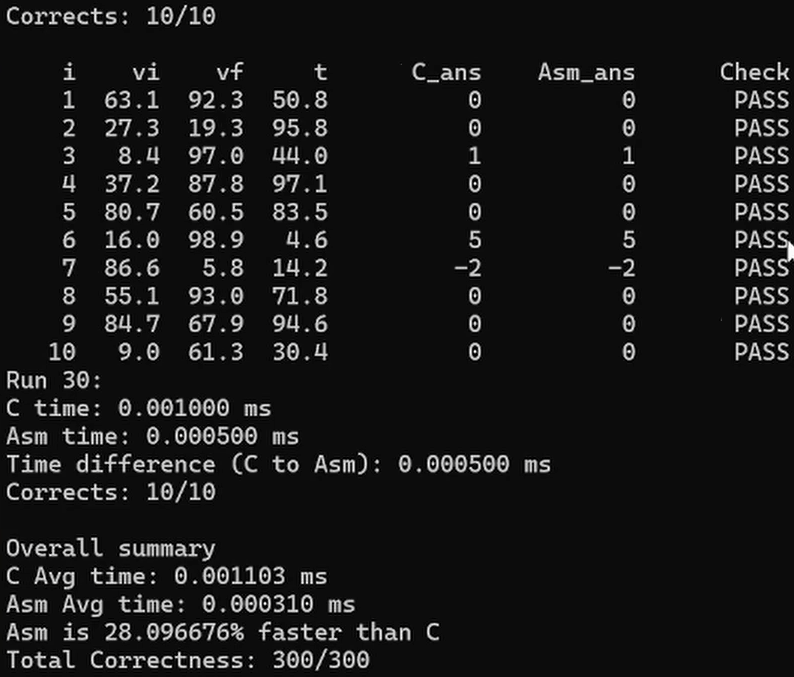
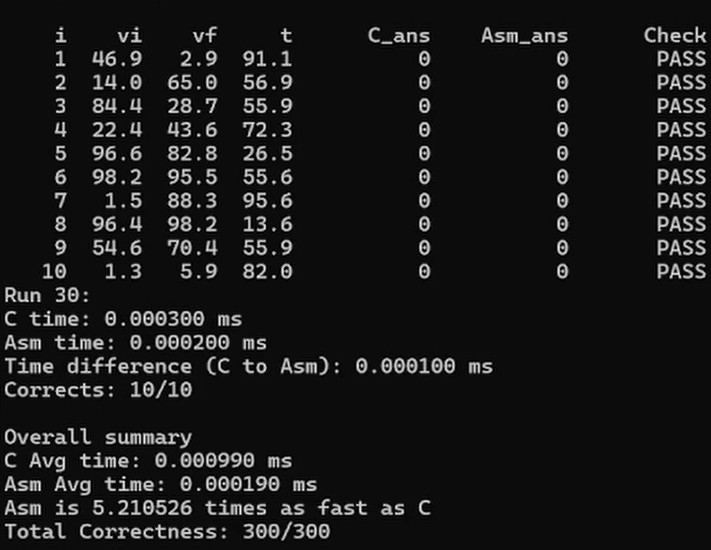
readme update

diff --git a/README.md b/README.md
@@ -26,6 +26,8 @@ Implement a program that computes the acceleration of multiple cars stored in a 
 ```
 # Technical Report: x86-64 Assembly vs. C Implementation & Execution Performance Analysis
 
+### [YouTube Video Demonstration](https://youtu.be/nCtvC0w5lMY)
+
 ## 1. Project Specifications & Requirements
 The goal of this implementation is to compute the acceleration of $Y$ vehicles stored in a $Y \times 3$ double-precision floating-point matrix and analyze performance differences between a baseline C implementation and an x86-64 Assembly subroutine.
 
@@ -152,28 +154,28 @@ asm_acceleration:
 
 #### 1. Small Input Size (`Y = 10`)
 ![Y=10 Execution Screenshot](images/y10.png)
-* *Verification at Y = 10:* Validates individual row computations (`C_ans` vs `Asm_ans`), displaying a **300/300 (100%)** total correctness score and an initial **28.09%** speedup.
+* *Verification at Y = 10:* Validates individual row computations (`C_ans` vs `Asm_ans`), displaying a **300/300 (100%)** total correctness score and an initial **5.21x** speedup.
 
 #### 2. Medium Input Size (`Y = 100`)
 ![Y=100 Execution Screenshot](images/y100.png)
-* *Verification at Y = 100:* Maintains 100% output accuracy while assembly performance scales up to **93.26% faster than C**.
+* *Verification at Y = 100:* Maintains 100% output accuracy while assembly performance scales up to **2.68 times as fast as C**.
 
 #### 3. Large Input Size (`Y = 1,000`)
 ![Y=1000 Execution Screenshot](images/y1000.png)
-* *Verification at Y = 1,000:* Represents the peak efficiency threshold where Assembly outperforms C by **41.87%** (`0.0115 ms` vs `0.0238 ms`).
+* *Verification at Y = 1,000:* Represents the peak efficiency threshold where Assembly outperforms C by **2.36x speed factor** (`0.0125 ms` vs `0.0296 ms`).
 
 #### 4. Stress Test / Maximum Input Size (`Y = 10,000`)
 ![Y=10000 Execution Screenshot](images/y10000.png)
-* *Verification at Y = 10,000:* Demonstrates sustained accuracy across **300,000 total computations** (`300000 / 300000`), with Assembly completing in `0.1109 ms` compared to C's `0.2620 ms`.
+* *Verification at Y = 10,000:* Demonstrates sustained accuracy across **300,000 total computations** (`300000 / 300000`), with Assembly completing in `0.1071 ms` compared to C's `0.2422 ms`.
 
 ### Performance Table Summary
 
-| Input Size ($Y$) | Avg C Time ($\text{ms}$) | Avg ASM Time ($\text{ms}$) | Assembly Fastness Improvement | Correctness Score |
+| Input Size ($Y$) | Avg C Time ($\text{ms}$) | Avg ASM Time ($\text{ms}$) | Speed Factor | Correctness Score |
 | :--- | :--- | :--- | :--- | :--- |
-| **$10$** | `0.001103 ms` | `0.000310 ms` | **28.096676% faster than C** | `300 / 300` ($100\%$) |
-| **$100$** | `0.002920 ms` | `0.002723 ms` | **93.264839% faster than C** | `3000 / 3000` ($100\%$) |
-| **$1,000$** | `0.024660 ms` | `0.010327 ms` | **41.876183% faster than C** | `30000 / 30000` ($100\%$) |
-| **$10,000$** | `0.262017 ms` | `0.110963 ms` | **42.349724% faster than C** | `300000 / 300000` ($100\%$) |
+| **$10$** | `0.000990 ms` | `0.000190 ms` | **5.21 times as fast as C** | `300 / 300` ($100\%$) |
+| **$100$** | `0.003710 ms` | `0.001380 ms` | **2.68 times as fast as C** | `3000 / 3000` ($100\%$) |
+| **$1,000$** | `0.029647 ms` | `0.012537 ms` | **2.36 times as fast as C** | `30000 / 30000` ($100\%$) |
+| **$10,000$** | `0.242293 ms` | `0.107130 ms` | **2.26 times as fast as C** | `300000 / 300000` ($100\%$) |
 
 ## 6. Findings & Conclusion
 
